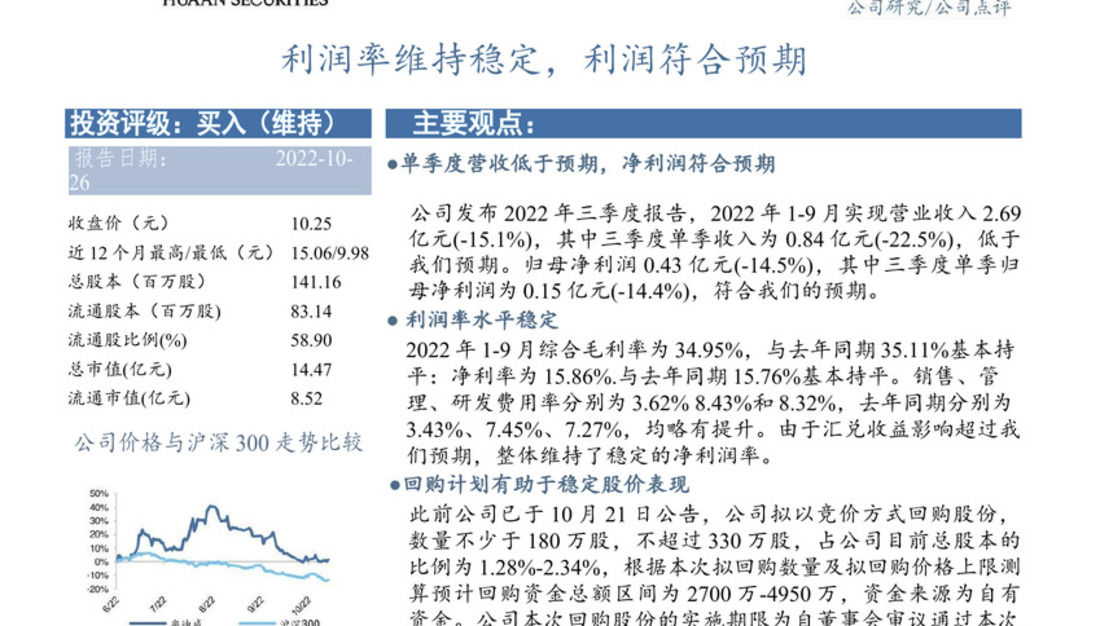
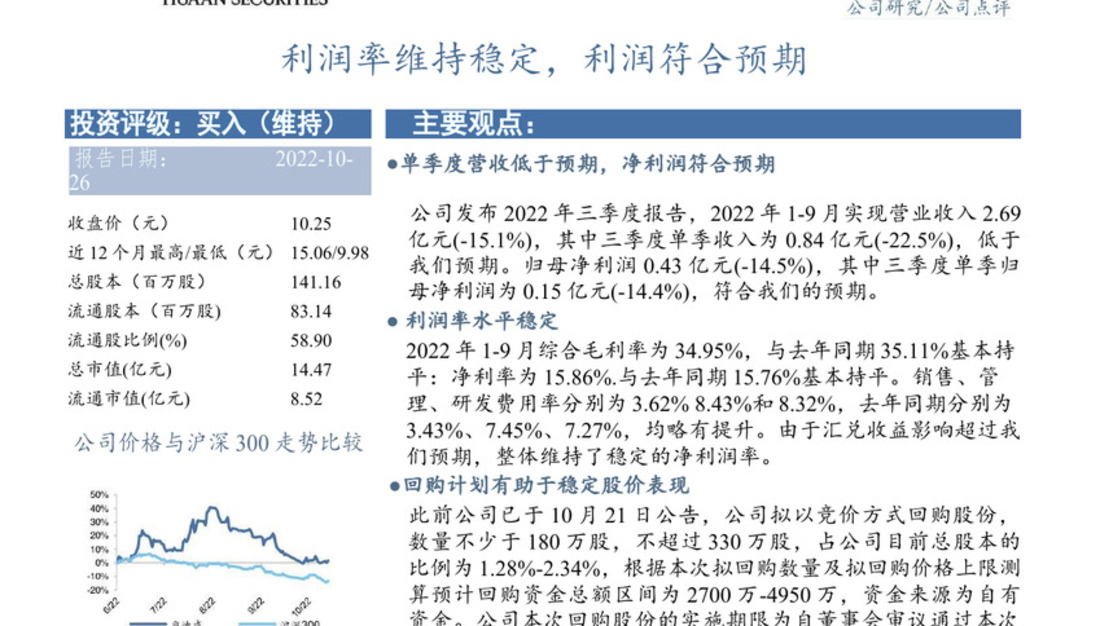
fix: reflow inline numbered lists naturally

diff --git a/Code/docflow_src/docflow/analysis/document_analyzer.py b/Code/docflow_src/docflow/analysis/document_analyzer.py
@@ -61,6 +61,9 @@ _FURNITURE = {"header", "footer", "page_number"}
 _LIST_MARKER_RE = re.compile(
     r"^\s*(?:[\u2022\u25cf\u25aa\u25e6]|[\u2460-\u2473]|(?:\(?\d{1,3}\)?|[A-Za-z])[.)\u3001\uff0e])"
 )
+_INLINE_LIST_MARKER_RE = re.compile(
+    r"[;\uff1b]\s*(?:[\u2460-\u2473]|(?:\(?\d{1,3}\)?|[A-Za-z])[.)\u3001\uff0e])"
+)
 
 
 def _join_text_segments(left: str, right: str) -> str:
@@ -332,8 +335,12 @@ class DocumentAnalyzer:
     ) -> TextStructure:
         lines = tuple(row.text for row in text_rows) or tuple(value for _line, value, _bbox in visible_lines)
         marked = tuple(bool(_LIST_MARKER_RE.match(str(line))) for line in lines)
-        preserve_lines = tabular_rows or len(lines) >= 2 and sum(marked) >= 2 and (
-            all(marked) or not marked[0] and all(marked[1:])
+        inline_list = any(_INLINE_LIST_MARKER_RE.search(str(line)) for line in lines)
+        preserve_lines = tabular_rows or (
+            not inline_list
+            and len(lines) >= 2
+            and sum(marked) >= 2
+            and (all(marked) or not marked[0] and all(marked[1:]))
         )
         boxes = tuple(row.bbox for row in text_rows)
         if len(boxes) == len(lines) and len(boxes) >= 2:

diff --git a/tests/test_document_analyzer.py b/tests/test_document_analyzer.py
@@ -333,6 +333,29 @@ def test_analyzer_records_list_lines_and_geometry_once() -> None:
     assert element.text_structure.hanging_indent_px == 40
 
 
+def test_analyzer_reflows_inline_numbered_list_across_ocr_rows() -> None:
+    item = RecognitionItem(
+        "risks",
+        "text",
+        Rect(100, 100, 900, 180),
+        1,
+        text_lines=(
+            TextEvidence(
+                "1) First; 2) Second; 3) Third;",
+                polygon=((100, 100), (900, 100), (900, 130), (100, 130)),
+            ),
+            TextEvidence("4) Fourth.", polygon=((100, 145), (300, 145), (300, 175), (100, 175))),
+        ),
+    )
+
+    element = DocumentAnalyzer().analyze(
+        RecognitionEvidence((RecognitionPage(0, 1000, 1400, (item,)),))
+    ).pages[0].elements[0]
+
+    assert element.text_structure.is_list is True
+    assert element.text_structure.preserve_source_lines is False
+
+
 def test_analyzer_uses_polygon_thickness_for_rotated_text_height() -> None:
     item = RecognitionItem(
         "rotated",
